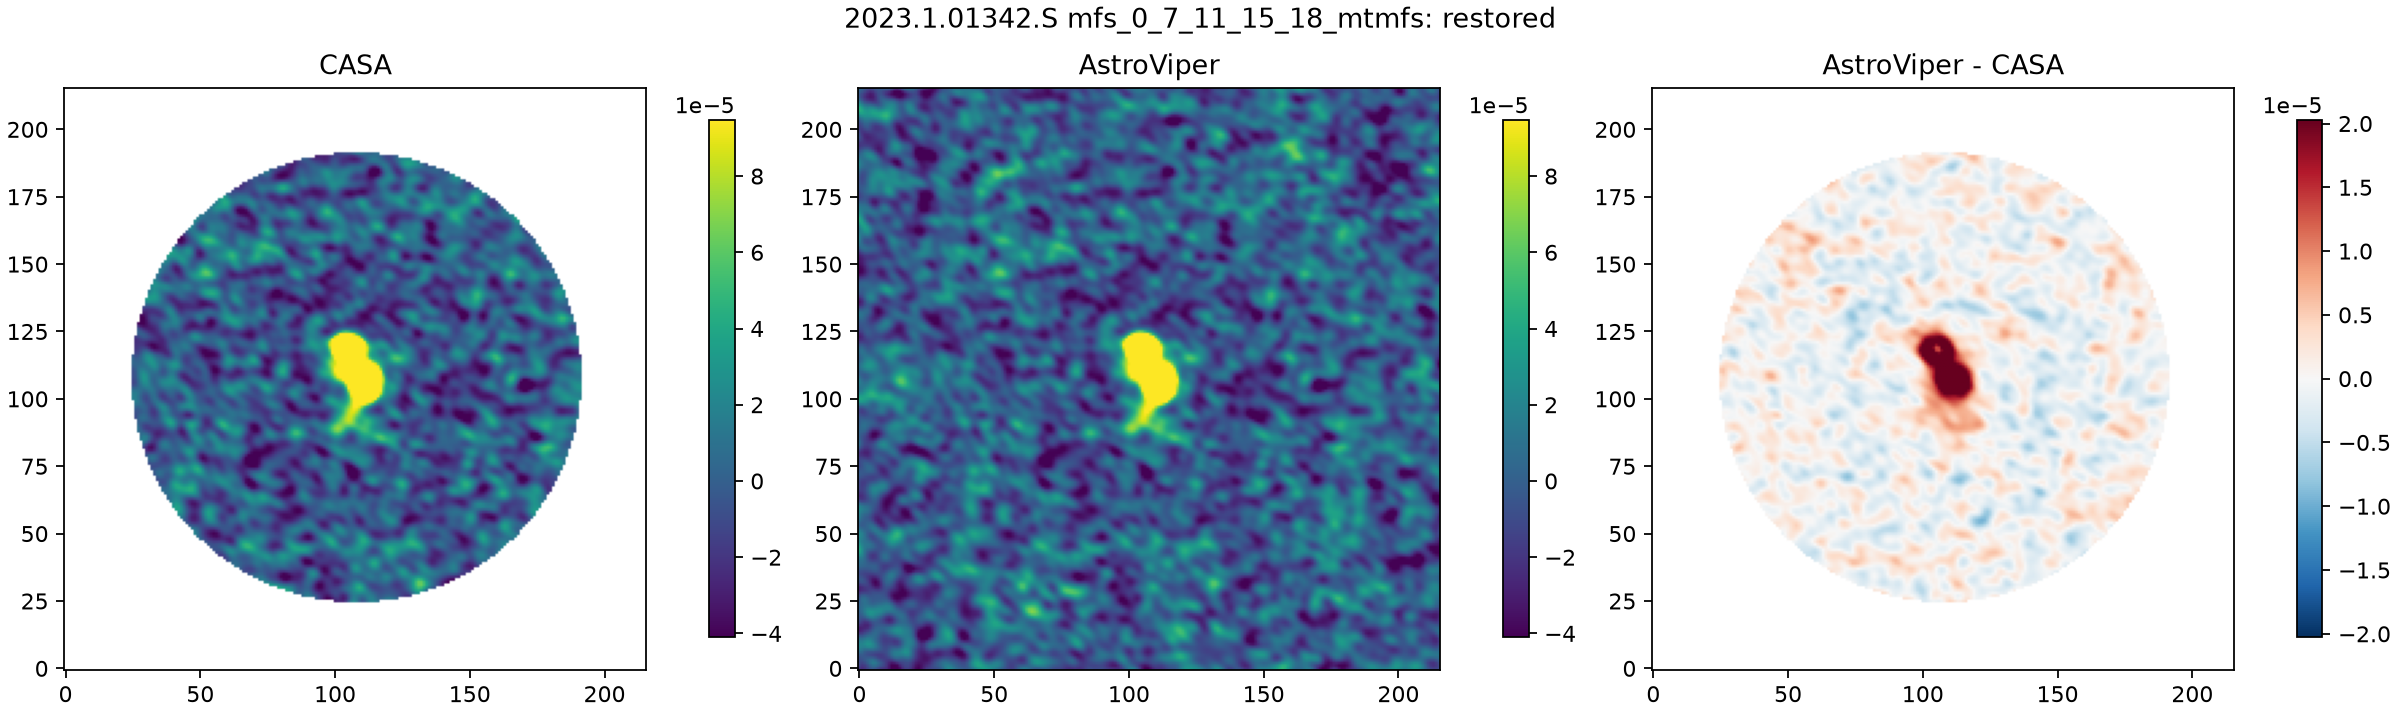
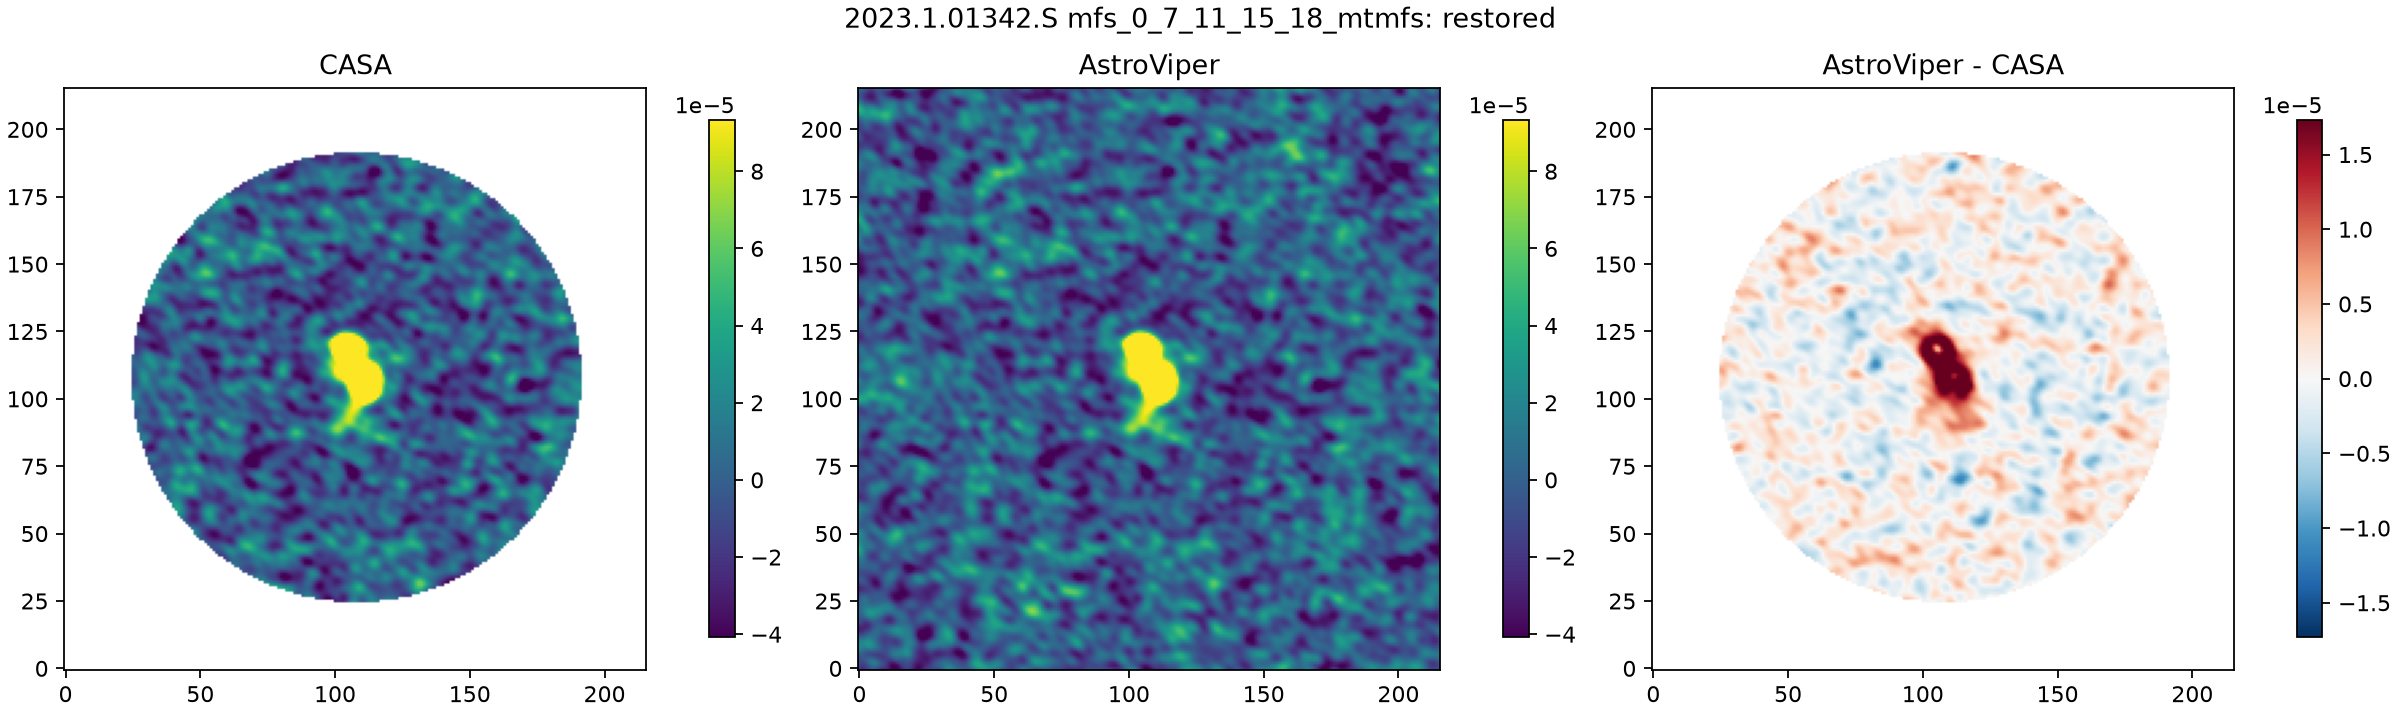
Align harness iteration limits with CASA
Translate positive CASA niter and cycleniter values to AstroVIPER's exclusive iteration budgets while preserving zero and unlimited limits. Refresh medium and large validation documentation, metrics, and plots after rerunning the full harness.

diff --git a/scripts/medium_tests/run_radps_reference.py b/scripts/medium_tests/run_radps_reference.py
@@ -18,6 +18,7 @@ import numpy as np
 SCRIPT_ROOT = Path(__file__).resolve().parent
 HARNESS_ROOT = Path(__file__).resolve().parents[2]
 sys.path.insert(0, str(SCRIPT_ROOT))
+sys.path.insert(0, str(HARNESS_ROOT / "scripts"))
 from cases import (  # noqa: E402
     CASES,
     CLEANING_CASE,
@@ -27,6 +28,7 @@ from cases import (  # noqa: E402
     selected_weightings,
     weighting_suffix,
 )
+from iteration_limits import casa_to_astroviper_iteration_limit  # noqa: E402
 
 
 def convert_ms(ms_path: Path, ps_path: Path, overwrite: bool) -> None:
@@ -193,16 +195,15 @@ def run_case(
     if weighting_config["robust"] is not None:
         imaging_weights_params["robust"] = weighting_config["robust"]
     iteration_control_params = {
-        # The current continuum driver dispatches the minor-loop wrapper even
-        # for niter=0, while the deconvolver rejects zero. One permitted
-        # iteration plus an unreachable threshold yields an unchanged model
-        # and therefore still isolates the dirty major-cycle products.
-        "max_iter": CLEANING_CASE["niter"] if args.clean else 1,
+        "max_iter": casa_to_astroviper_iteration_limit(
+            CLEANING_CASE["niter"] if args.clean else 0
+        ),
         "max_cycles": CLEANING_CASE["nmajor"] if args.clean else 0,
         "threshold": CLEANING_CASE["threshold_jy"] if args.clean else 1.0e30,
         "gain": 0.1,
         "psf_sidelobe_factor": 1.0,
-        "max_iter_per_cycle": 50 if args.clean else 1,
+        # CASA leaves cycleniter at its unlimited default in this comparison.
+        "max_iter_per_cycle": casa_to_astroviper_iteration_limit(-1),
         "min_psf_fraction": 0.05,
         "max_psf_fraction": 0.8,
         "threshold_sigma": 0.0,

diff --git a/scripts/big_tests/run_astroviper.py b/scripts/big_tests/run_astroviper.py
@@ -11,6 +11,7 @@ from pathlib import Path
 import numpy as np
 
 sys.path.insert(0, str(Path(__file__).resolve().parent))
+sys.path.insert(0, str(Path(__file__).resolve().parents[1]))
 
 from continuum_common import (
     BIG_VALIDATION_PROJECTS,
@@ -21,6 +22,7 @@ from continuum_common import (
     parse_jy,
     write_manifest,
 )
+from iteration_limits import casa_to_astroviper_iteration_limit
 
 
 def _convert_ms(selected_ms: Path, ps_store: Path, overwrite: bool) -> None:
@@ -122,13 +124,15 @@ def run_project(
             int(config.get("niter", 0)) if niter_override is None else niter_override
         )
         iteration_control_params = {
-            "max_iter": effective_niter,
+            "max_iter": casa_to_astroviper_iteration_limit(effective_niter),
             "max_cycles": nmajor,
             "threshold_sigma": float(config.get("nsigma", 0.0)),
             "threshold": parse_jy(config.get("threshold", 0.0)),
             "gain": float(config.get("gain", 0.1)),
             "psf_sidelobe_factor": float(config.get("cyclefactor", 1.0)),
-            "max_iter_per_cycle": int(config.get("cycleniter", 50)),
+            "max_iter_per_cycle": casa_to_astroviper_iteration_limit(
+                int(config.get("cycleniter", -1))
+            ),
             "min_psf_fraction": float(config.get("minpsffraction", 0.05)),
             "max_psf_fraction": float(config.get("maxpsffraction", 0.8)),
         }

diff --git a/scripts/medium_tests/run_flat_point_reconstruction.py b/scripts/medium_tests/run_flat_point_reconstruction.py
@@ -1,11 +1,17 @@
 """Matched nterms=1, natural-weight MFS/Hogbom example; run engines separately."""
 
-from pathlib import Path
 import argparse
 import json
+import sys
+from pathlib import Path
+
 import numpy as np
 
 ROOT = Path(__file__).resolve().parents[2]
+sys.path.insert(0, str(ROOT / "scripts"))
+
+from iteration_limits import casa_to_astroviper_iteration_limit  # noqa: E402
+
 STAGES = {"dirty": 0, "update": 5, "clean": 100}
 
 
@@ -121,14 +127,15 @@ def main():
                     casa_weighting_implementation=True,
                 ),
                 iteration_control_params=dict(
-                    niter=max(1, niter),
-                    nmajor=20 if niter else 0,
+                    max_iter=casa_to_astroviper_iteration_limit(niter),
+                    max_cycles=20 if niter else 0,
                     threshold=0.01 if niter else 1.0e30,
                     gain=0.1,
-                    cyclefactor=1.0,
-                    cycleniter=5,
-                    minpsffraction=0.05,
-                    maxpsffraction=0.8,
+                    psf_sidelobe_factor=1.0,
+                    max_iter_per_cycle=casa_to_astroviper_iteration_limit(5),
+                    min_psf_fraction=0.05,
+                    max_psf_fraction=0.8,
+                    threshold_sigma=0.0,
                 ),
                 gridder="prolate_spheroidal",
                 deconvolver="hogbom",

diff --git a/scripts/big_tests/test_continuum_common.py b/scripts/big_tests/test_continuum_common.py
@@ -7,6 +7,15 @@ from continuum_common import (
     astroviper_variants,
     resolve_available_config,
 )
+from scripts.iteration_limits import casa_to_astroviper_iteration_limit
+
+
+def test_casa_iteration_limits_translate_to_astroviper_budgets():
+    """Positive CASA limits are inclusive; zero and unlimited stay unchanged."""
+    assert casa_to_astroviper_iteration_limit(0) == 0
+    assert casa_to_astroviper_iteration_limit(5) == 6
+    assert casa_to_astroviper_iteration_limit(100) == 101
+    assert casa_to_astroviper_iteration_limit(-1) == -1
 
 
 def test_targets_fallback_uses_calibrated_column(tmp_path: Path):

diff --git a/scripts/iteration_limits.py b/scripts/iteration_limits.py
@@ -1,0 +1,7 @@
+"""Translate CASA's inclusive CLEAN limits to AstroVIPER iteration budgets."""
+
+
+def casa_to_astroviper_iteration_limit(limit: int) -> int:
+    """Return the AstroVIPER budget equivalent to one CASA iteration limit."""
+    limit = int(limit)
+    return limit + 1 if limit > 0 else limit

diff --git a/evaluation/big_tests/summary.md b/evaluation/big_tests/summary.md
@@ -8,21 +8,21 @@
 | 2017.1.00661.S | mfs_0_16_hogbom | psf | compared | 0.999958 | 0.00914588 | 1.00261 |
 | 2017.1.00661.S | mfs_0_16_hogbom | primary_beam | compared | 1 | 0.000232843 | 1.0002 |
 | 2017.1.00661.S | mfs_0_16_hogbom | model | compared | 0.999999 | 0.00170599 | 1.00034 |
-| 2023.1.01342.S | mfs_0_7_11_15_18_hogbom | restored | compared | 0.998744 | 0.068857 | 1.05831 |
-| 2023.1.01342.S | mfs_0_7_11_15_18_hogbom | restored_pbcor | compared | 0.995413 | 0.101541 | 1.06258 |
-| 2023.1.01342.S | mfs_0_7_11_15_18_hogbom | residual | compared | 0.992303 | 0.124843 | 1.13242 |
+| 2023.1.01342.S | mfs_0_7_11_15_18_hogbom | restored | compared | 0.998746 | 0.0688438 | 1.05852 |
+| 2023.1.01342.S | mfs_0_7_11_15_18_hogbom | restored_pbcor | compared | 0.99542 | 0.101445 | 1.06246 |
+| 2023.1.01342.S | mfs_0_7_11_15_18_hogbom | residual | compared | 0.992341 | 0.124517 | 1.13245 |
 | 2023.1.01342.S | mfs_0_7_11_15_18_hogbom | psf | compared | 0.997585 | 0.0808893 | 1.62827 |
 | 2023.1.01342.S | mfs_0_7_11_15_18_hogbom | primary_beam | compared | 1 | 0.000185509 | 1.00015 |
-| 2023.1.01342.S | mfs_0_7_11_15_18_hogbom | model | compared | 0.979497 | 0.205531 | 1.01516 |
+| 2023.1.01342.S | mfs_0_7_11_15_18_hogbom | model | compared | 0.97865 | 0.2096 | 1.01536 |
 | 2017.1.00661.S | mfs_0_16_mtmfs | restored | compared | 0.997329 | 0.081341 | 1.03874 |
 | 2017.1.00661.S | mfs_0_16_mtmfs | restored_pbcor | compared | 0.977786 | 0.208112 | 1.12285 |
 | 2017.1.00661.S | mfs_0_16_mtmfs | residual | compared | 0.836068 | 0.590436 | -4.94373 |
 | 2017.1.00661.S | mfs_0_16_mtmfs | psf | compared | 0.999958 | 0.00914588 | 1.00261 |
 | 2017.1.00661.S | mfs_0_16_mtmfs | primary_beam | compared | 1 | 0.000232843 | 1.0002 |
 | 2017.1.00661.S | mfs_0_16_mtmfs | model | compared | 0.980762 | 0.195162 | 1.07406 |
-| 2023.1.01342.S | mfs_0_7_11_15_18_mtmfs | restored | compared | 0.998981 | 0.06011 | 1.06142 |
-| 2023.1.01342.S | mfs_0_7_11_15_18_mtmfs | restored_pbcor | compared | 0.996528 | 0.0877232 | 1.0834 |
-| 2023.1.01342.S | mfs_0_7_11_15_18_mtmfs | residual | compared | 0.994437 | 0.105367 | 0.958233 |
+| 2023.1.01342.S | mfs_0_7_11_15_18_mtmfs | restored | compared | 0.998842 | 0.0584803 | 1.10917 |
+| 2023.1.01342.S | mfs_0_7_11_15_18_mtmfs | restored_pbcor | compared | 0.995905 | 0.0946861 | 1.2185 |
+| 2023.1.01342.S | mfs_0_7_11_15_18_mtmfs | residual | compared | 0.986959 | 0.160969 | 1.15946 |
 | 2023.1.01342.S | mfs_0_7_11_15_18_mtmfs | psf | compared | 0.997585 | 0.0808893 | 1.62827 |
 | 2023.1.01342.S | mfs_0_7_11_15_18_mtmfs | primary_beam | compared | 1 | 0.000185509 | 1.00015 |
-| 2023.1.01342.S | mfs_0_7_11_15_18_mtmfs | model | compared | 0.979073 | 0.206615 | 1.0095 |
+| 2023.1.01342.S | mfs_0_7_11_15_18_mtmfs | model | compared | 0.976573 | 0.218608 | 1.071 |

diff --git a/TESTS.md b/TESTS.md
@@ -95,6 +95,14 @@ Coverage includes:
 - a strictly single-field off-axis MVC regression that checks the 60-pixel
   source displacement, central PB peak, PB attenuation at the source, and the
   apparent source response without invoking mosaicing or phase-center shifts.
+- a fixed-iteration flat-point regression that translates CASA's inclusive
+  positive `niter`/`cycleniter` limits to AstroVIPER's iteration budgets and
+  compares the resulting model and residual after the same number of component
+  updates.
+
+The runners preserve zero and negative/unlimited iteration limits, but add one
+to positive CASA `niter` and `cycleniter` values: CASA applies component update
+zero through update *N*, whereas AstroVIPER executes exactly *N* updates.
 
 `scripts/medium_tests/cube_backward_compatibility/` uses the five-channel TW Hydra
 processing set for several distributed-application checks. The cube test reopens a
@@ -214,6 +222,9 @@ Last verified on 2026-10-15 against AstroVIPER commit `1f5807e` on the
 - medium phase-center matrix: all six MFS/MVC × natural-local/Briggs-local/
   Briggs-global runs completed, their persisted products matched the in-memory
   results, and every enforced CASA comparison passed;
+- medium fixed-iteration flat-point comparison: all 30 checks pass after the
+  CASA-to-AstroVIPER iteration-limit translation; model and residual maximum
+  absolute differences are `8.94e-08` and `3.34e-06` Jy, respectively;
 - TW Hydra distributed continuum regression: MFS natural-local, MVC
   natural-local, and MFS Briggs-global passed with equivalent persisted results
   for one and five frequency partitions;
@@ -224,9 +235,9 @@ Last verified on 2026-10-15 against AstroVIPER commit `1f5807e` on the
 - big 2017.1.00661.S and 2023.1.01342.S reconstructions: both Hogbom and MT-MFS
   (`nterms=2`) produce finite products, giving four completed runs and six CASA
   comparisons per run. Hogbom residual/model correlations are
-  `0.999976`/`0.999999` for 2017 and `0.992303`/`0.979497` for 2023; MT-MFS gives
-  `0.836068`/`0.980762` and `0.994437`/`0.979073`, respectively. Current runtimes
-  are `6.910 s`/`6.725 s` for 2017 and `55.872 s`/`260.352 s` for 2023
+  `0.999976`/`0.999999` for 2017 and `0.992341`/`0.978650` for 2023; MT-MFS gives
+  `0.836068`/`0.980762` and `0.986959`/`0.976573`, respectively. Current runtimes
+  are `6.965 s`/`7.038 s` for 2017 and `44.933 s`/`263.099 s` for 2023
   (Hogbom/MT-MFS).
 
 The audit fixed two defects: PB correction now emits only restored Taylor term

diff --git a/scripts/medium_tests/FLAT_POINT_RECONSTRUCTION.md b/scripts/medium_tests/FLAT_POINT_RECONSTRUCTION.md
@@ -23,6 +23,11 @@ major cycles with a 0.01 Jy threshold. Each stage starts independently from a
 zero model. Native restoration and PB correction are enabled. Common-beam
 restoration is a subsequent extension, not implemented here.
 
+CASA counts a positive iteration limit inclusively, whereas AstroVIPER's budget
+is the number of updates to execute. The runner therefore translates positive
+CASA `niter` and `cycleniter` values by adding one; zero and negative/unlimited
+limits remain unchanged.
+
 ## Run
 
 From the repository root, set `PY` to the Python executable in the viper
@@ -69,3 +74,10 @@ Returned iteration counts differ and require interpretation. AstroVIPER also rep
 ## Follow-up with CASA counting restored
 
 At the user's request, a local AstroVIPER patch on 795b8ba restores the positive inclusive Högbom iteration limit with a capped reported counter. Both kernels were rebuilt in viper; 59 unit tests pass. Rerunning the three AstroVIPER stages against the same CASA references now passes all 30 example checks, including the previously failing fixed-update comparisons. See results/flat_point_casa_counting/REPORT.md and astroviper.patch. The initial failure above remains a historical result of the earlier exclusive-limit build. Other controller, mask-summary and coverage caveats remain.
+
+The current portable harness does not require that historical AstroVIPER patch.
+It translates each positive CASA `niter` and `cycleniter` limit to the equivalent
+AstroVIPER budget by adding one, while preserving zero and negative/unlimited
+values. Against the current checkout this again passes all 30 checks; the
+fixed-update model and residual maximum absolute differences are `8.94e-08`
+and `3.34e-06` Jy, respectively.

diff --git a/evaluation/big_tests/2023.1.01342.S/mfs_0_7_11_15_18_mtmfs/finding.md b/evaluation/big_tests/2023.1.01342.S/mfs_0_7_11_15_18_mtmfs/finding.md
@@ -7,23 +7,23 @@ All recorded AstroViper products contain finite pixels.
 
 ## Run configuration
 
-- AstroViper elapsed time: `260.352 s`
+- AstroViper elapsed time: `263.099 s`
 - Deconvolver: `mtmfs`
 - Taylor terms: `2`
-- Requested iterations: `399999`
+- Requested iterations: `400000`
 - Major-cycle limit: `20`
-- Minor-cycle limit: `50`
+- Minor-cycle limit: `-1`
 - Stopping threshold: `6.16e-05 Jy`
 
 ## CASA comparison
 
 | Product | Status | Correlation | Normalized RMSE | Flux ratio |
 |---|---|---:|---:|---:|
-| restored | compared | 0.998981 | 0.06011 | 1.06142 |
-| restored_pbcor | compared | 0.996528 | 0.0877232 | 1.0834 |
-| residual | compared | 0.994437 | 0.105367 | 0.958233 |
+| restored | compared | 0.998842 | 0.0584803 | 1.10917 |
+| restored_pbcor | compared | 0.995905 | 0.0946861 | 1.2185 |
+| residual | compared | 0.986959 | 0.160969 | 1.15946 |
 | psf | compared | 0.997585 | 0.0808893 | 1.62827 |
 | primary_beam | compared | 1 | 0.000185509 | 1.00015 |
-| model | compared | 0.979073 | 0.206615 | 1.0095 |
+| model | compared | 0.976573 | 0.218608 | 1.071 |
 
 These are comparison measurements, not universal pass/fail thresholds. AstroViper used the configured `mtmfs` deconvolver without CASA auto-multithresh.

diff --git a/evaluation/big_tests/2023.1.01342.S/mfs_0_7_11_15_18_hogbom/finding.md b/evaluation/big_tests/2023.1.01342.S/mfs_0_7_11_15_18_hogbom/finding.md
@@ -7,23 +7,23 @@ All recorded AstroViper products contain finite pixels.
 
 ## Run configuration
 
-- AstroViper elapsed time: `55.872 s`
+- AstroViper elapsed time: `44.933 s`
 - Deconvolver: `hogbom`
 - Taylor terms: `2`
-- Requested iterations: `399999`
+- Requested iterations: `400000`
 - Major-cycle limit: `20`
-- Minor-cycle limit: `50`
+- Minor-cycle limit: `-1`
 - Stopping threshold: `6.16e-05 Jy`
 
 ## CASA comparison
 
 | Product | Status | Correlation | Normalized RMSE | Flux ratio |
 |---|---|---:|---:|---:|
-| restored | compared | 0.998744 | 0.068857 | 1.05831 |
-| restored_pbcor | compared | 0.995413 | 0.101541 | 1.06258 |
-| residual | compared | 0.992303 | 0.124843 | 1.13242 |
+| restored | compared | 0.998746 | 0.0688438 | 1.05852 |
+| restored_pbcor | compared | 0.99542 | 0.101445 | 1.06246 |
+| residual | compared | 0.992341 | 0.124517 | 1.13245 |
 | psf | compared | 0.997585 | 0.0808893 | 1.62827 |
 | primary_beam | compared | 1 | 0.000185509 | 1.00015 |
-| model | compared | 0.979497 | 0.205531 | 1.01516 |
+| model | compared | 0.97865 | 0.2096 | 1.01536 |
 
 These are comparison measurements, not universal pass/fail thresholds. AstroViper used the configured `hogbom` deconvolver without CASA auto-multithresh.

diff --git a/scripts/medium_tests/README.md b/scripts/medium_tests/README.md
@@ -45,10 +45,9 @@ $CASA_PYTHON scripts/medium_tests/prepare_off_axis_point.py --overwrite
 ## Why the minor loop is thresholded off
 
 CASA uses the real coupled MT-MFS minor loop. RADPS currently adapts Taylor term
-zero to a cube Högbom minor loop. CASA uses `niter=0`. The current RADPS driver
-still dispatches its minor wrapper for `niter=0`, so the RADPS harness uses one
-allowed iteration with threshold `1e30`; the model remains unchanged. The
-harness compares these major-cycle products:
+zero to a cube Högbom minor loop. CASA `niter=0` maps directly to AstroVIPER
+`max_iter=0`, so neither implementation updates the model. The harness compares
+these major-cycle products:
 
 - residual Taylor terms 0 and 1;
 - PSF/Hessian Taylor orders 0, 1, and 2;

diff --git a/scripts/big_tests/README.md b/scripts/big_tests/README.md
@@ -35,6 +35,10 @@ Run the commands below from the repository root after defining
    "$VALIDATION_PYTHON" scripts/big_tests/run_astroviper.py all --cores 4 --memory-limit 8GB
    ```
 
+   Positive CASA `niter` and `cycleniter` limits are inclusive and are
+   translated to AstroVIPER budgets by adding one. Zero and negative/unlimited
+   limits are preserved.
+
    Four dataset-specific entry points are also provided. For example:
 
    ```bash
